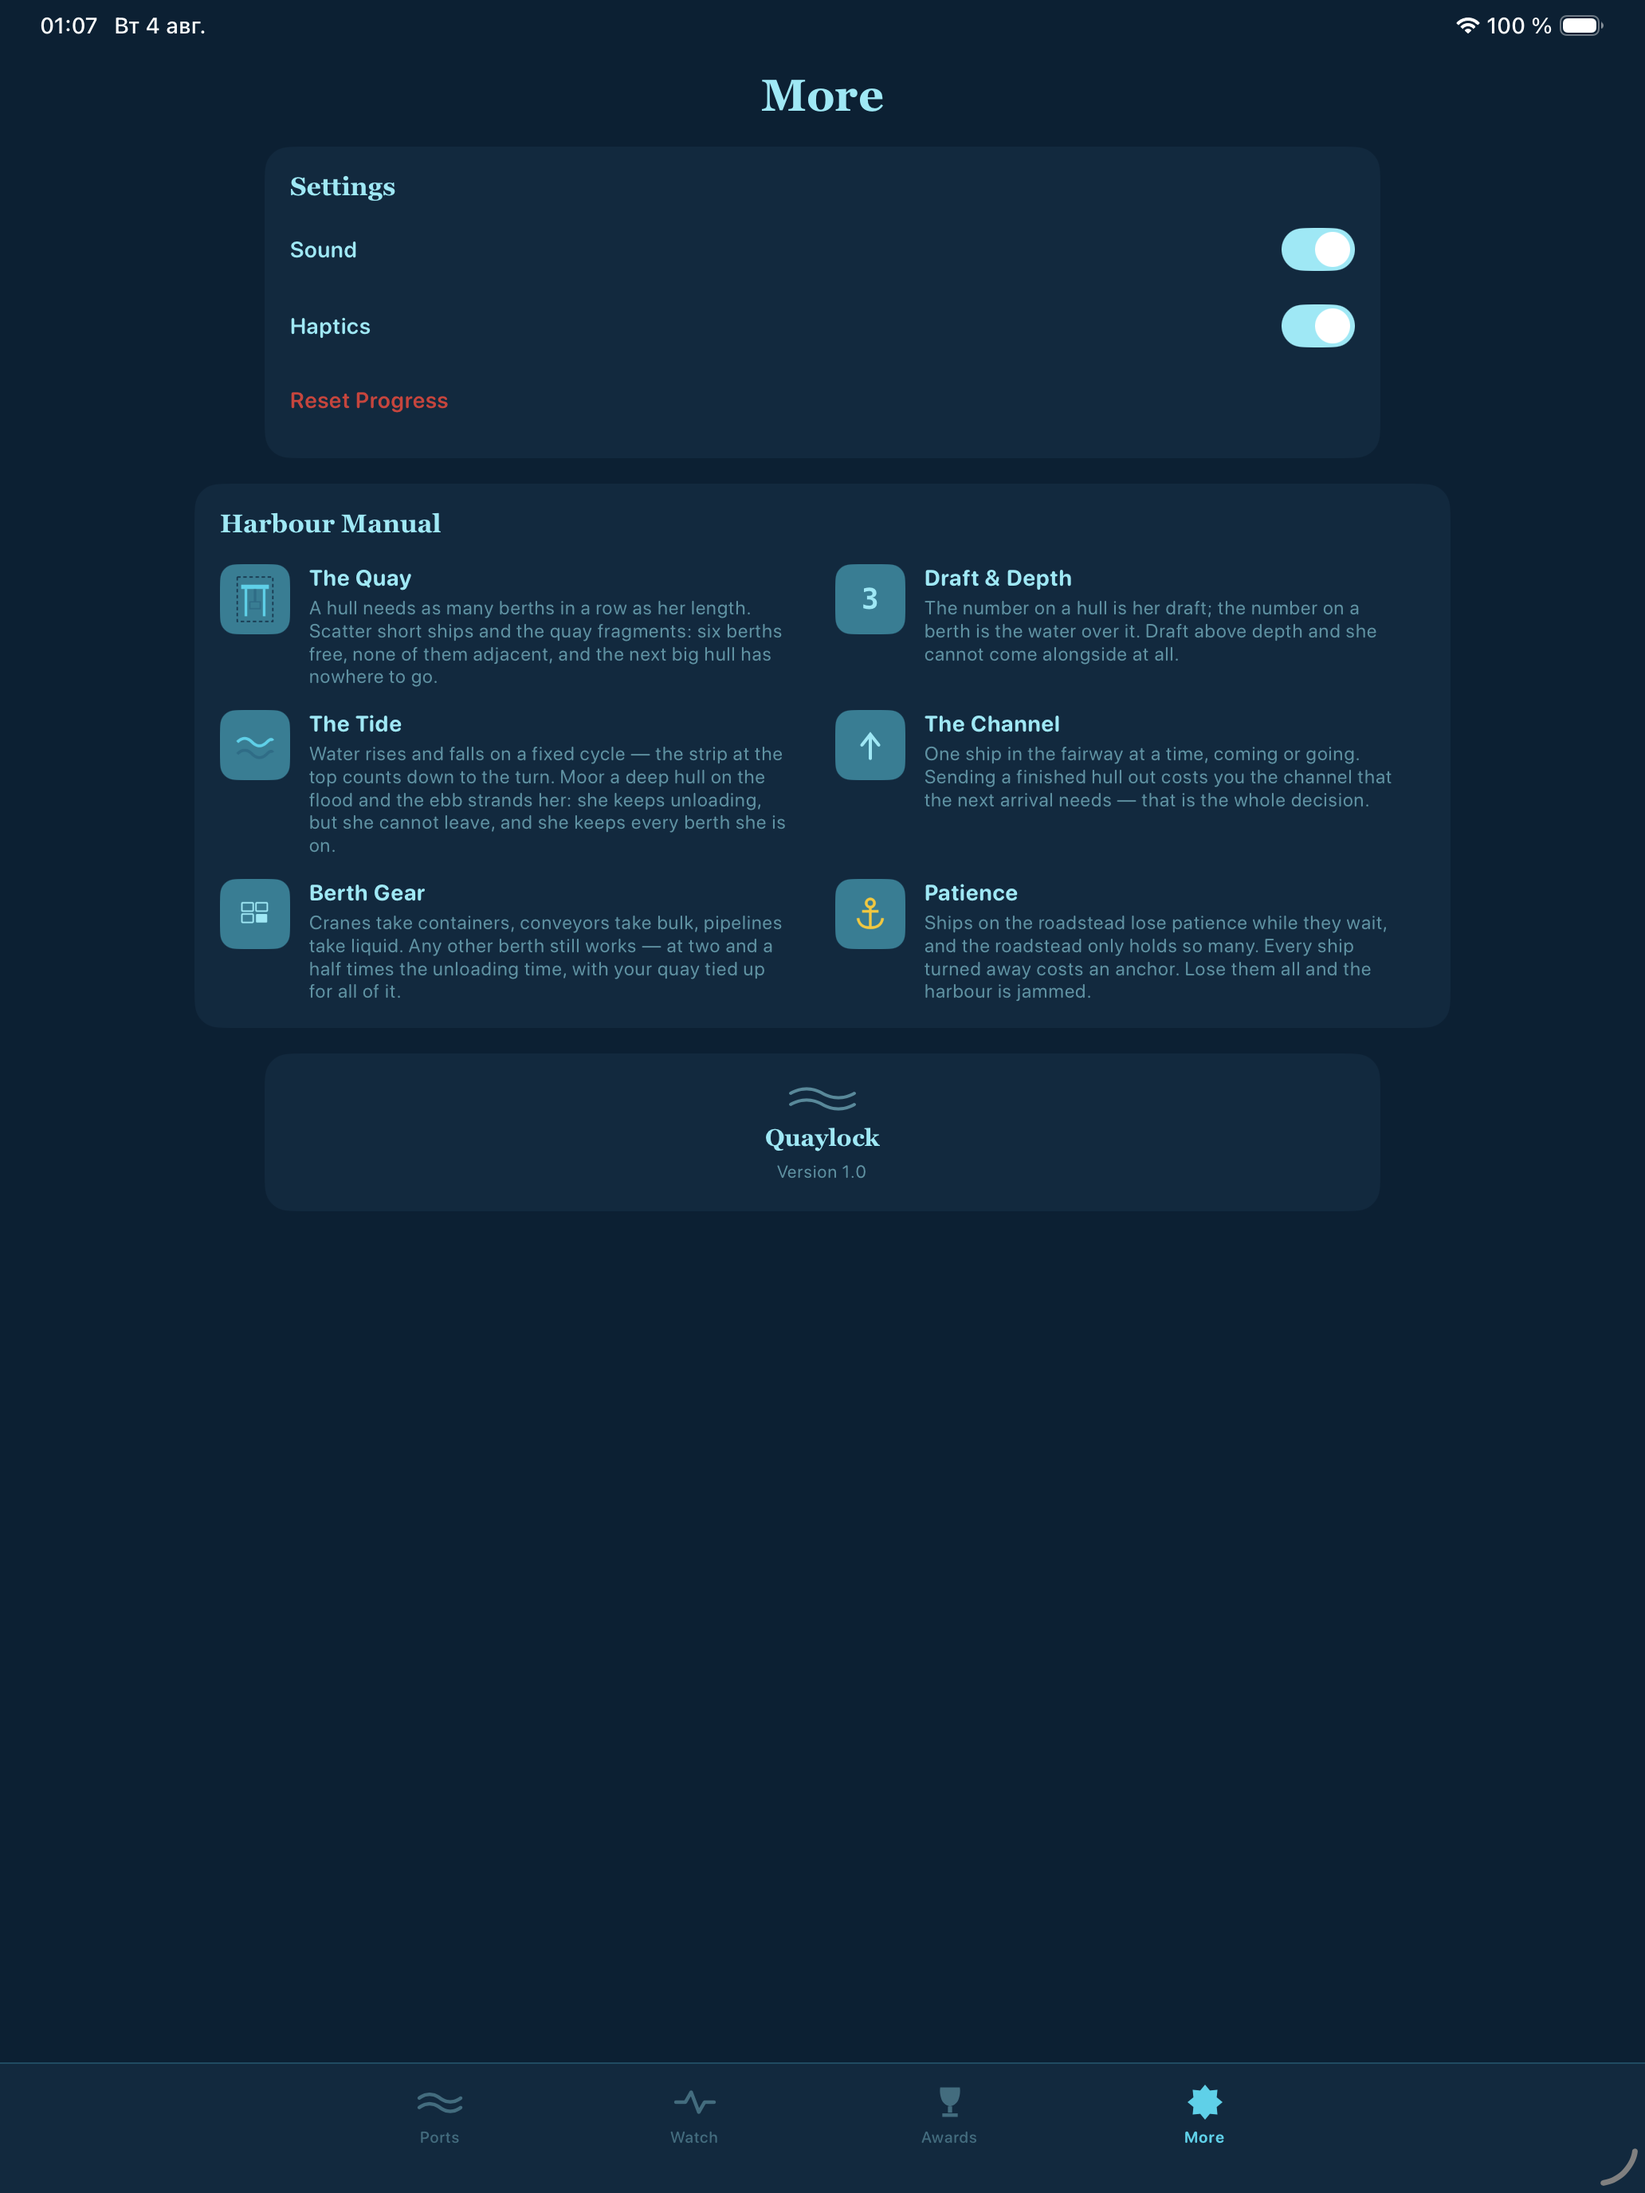
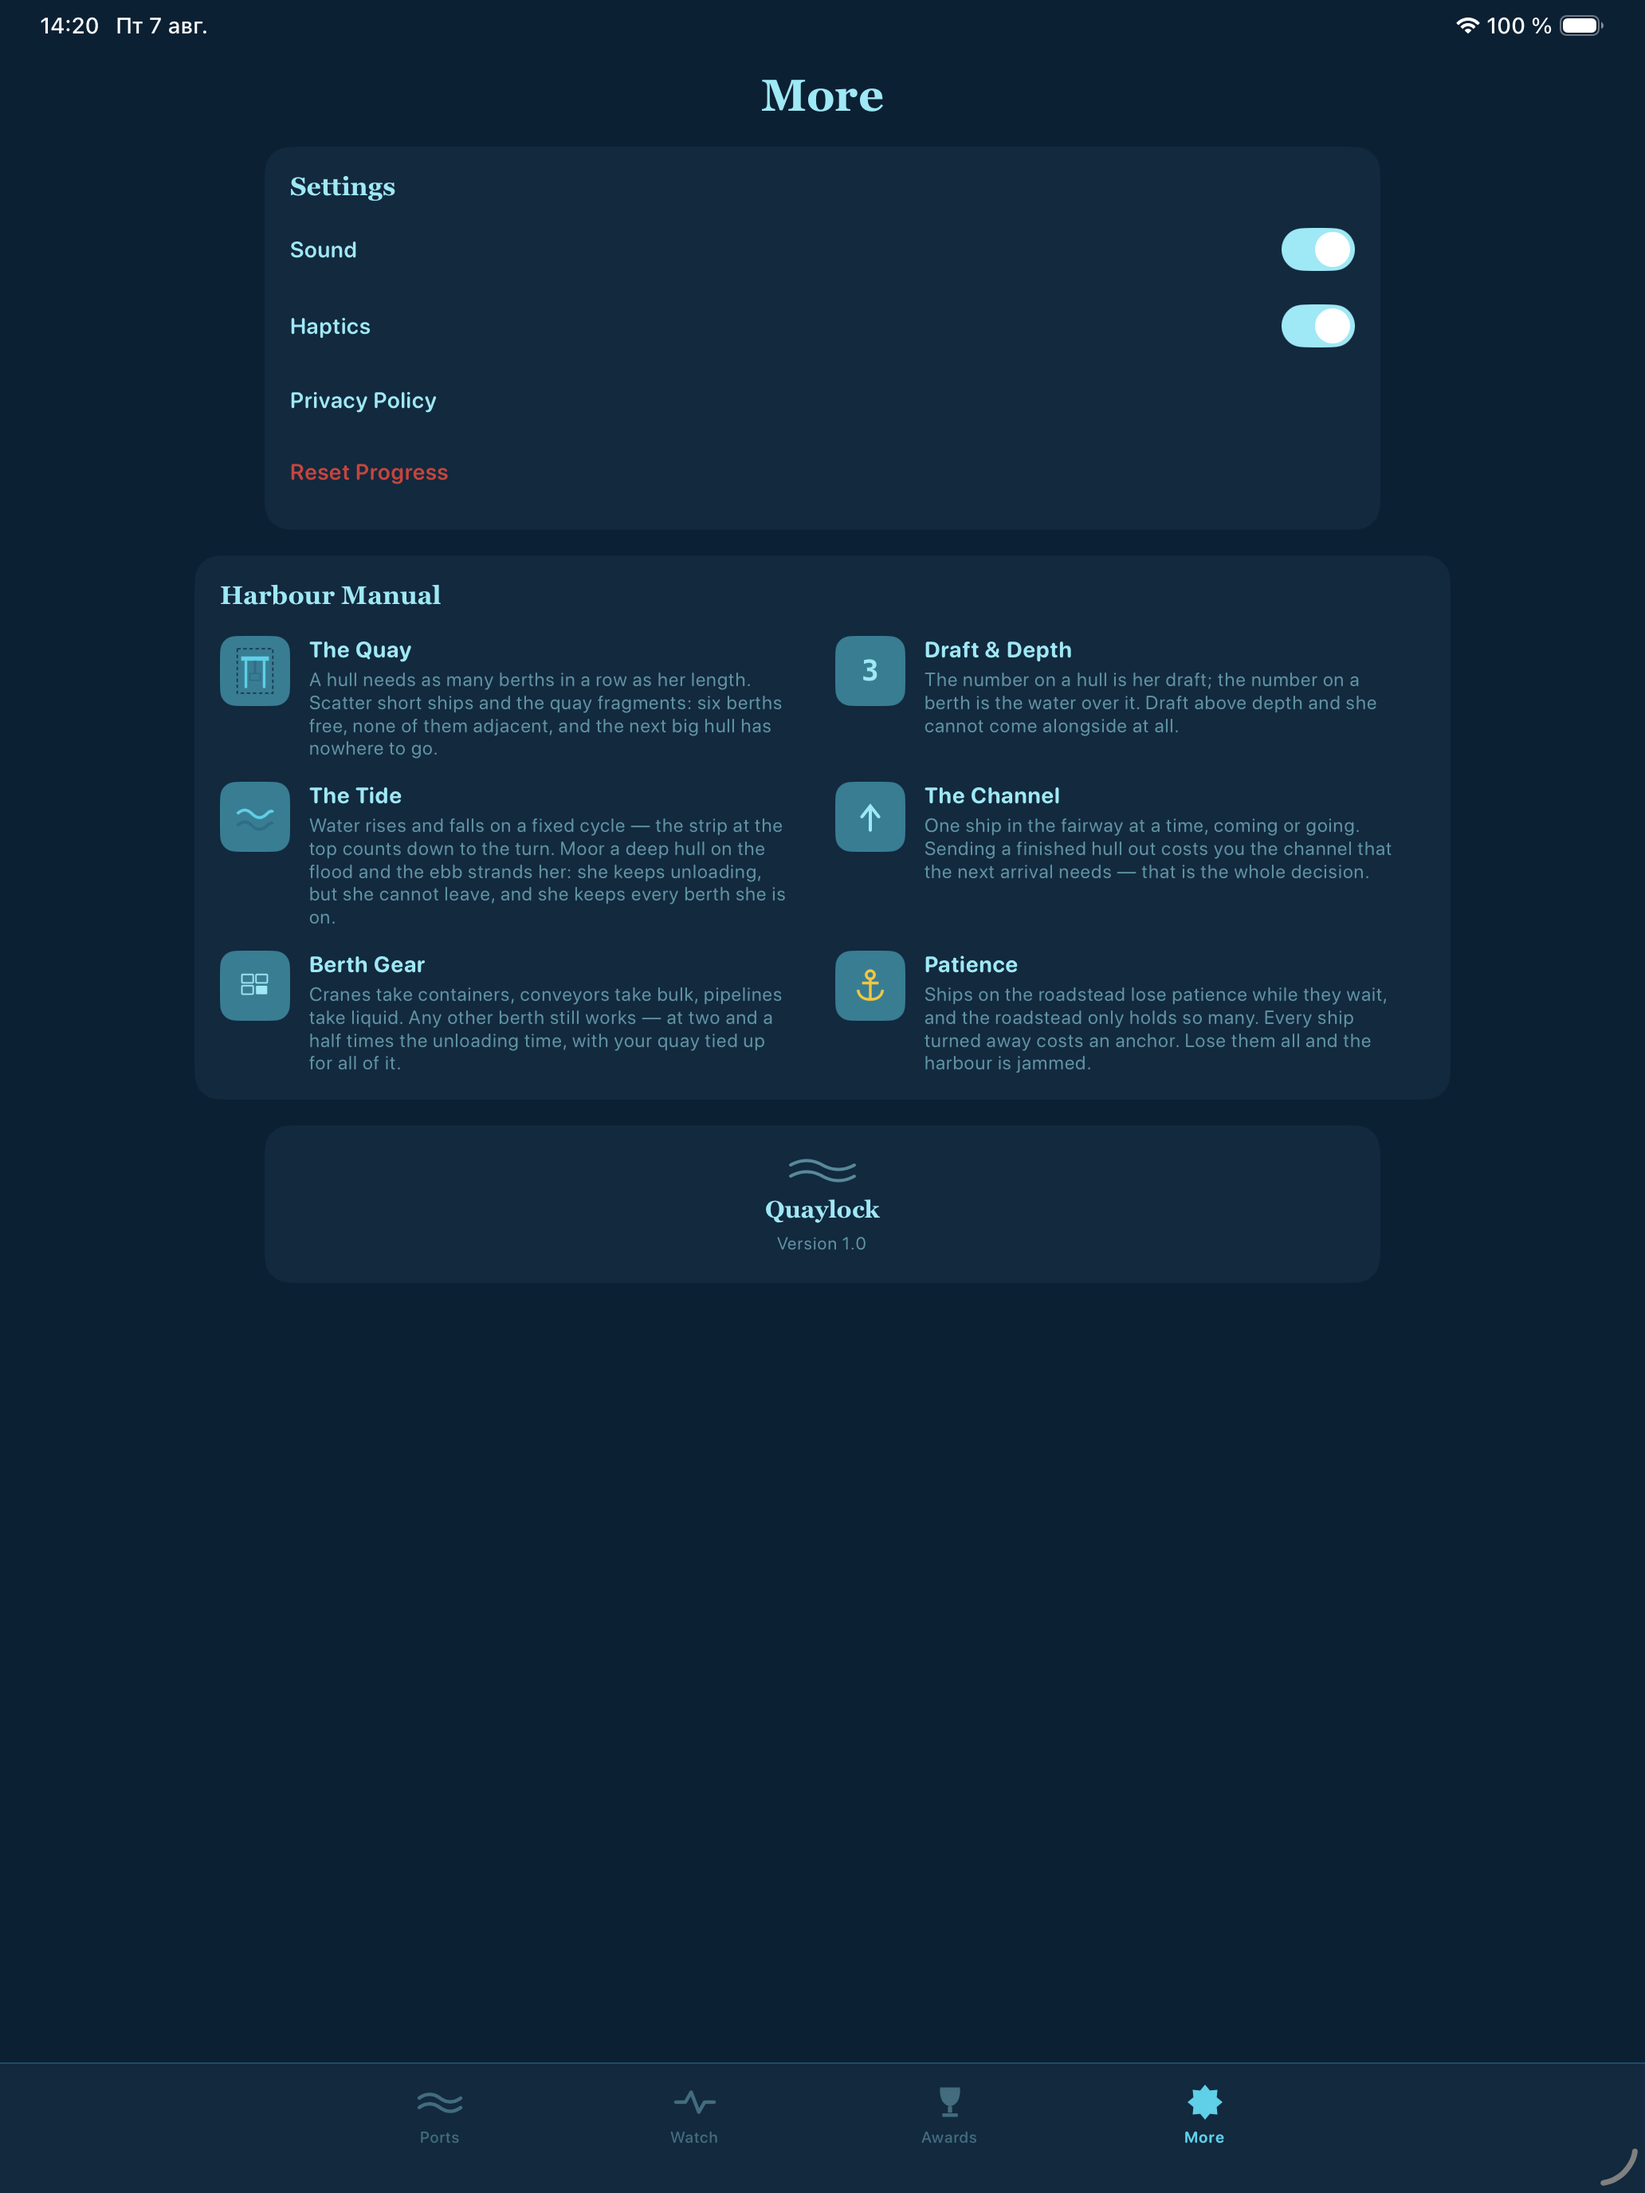
Restore the WebView launch gate
Rebuilds what 4f9a7ea removed: QuaylockWebPanel, QuaylockLoadingScreen, the
launch check + QuaylockRedirectTracker in QuaylockApp, and a Privacy Policy row
in QLMoreView. Both new files registered in the pbxproj by hand.

The splash is deliberately still — no repeatForever, no onAppear animation. The
previous splash was removed because its repeatForever animations kept the
removed view alive long enough to swallow taps on the tab bar; a static view
cannot reproduce that. Verified: the tab bar responds once the gate resolves.

Placeholder https://example.com / check example — no domain supplied yet.
Re-shot 05-manual.png on both devices for the new Privacy Policy row.

diff --git a/Quaylock/QuaylockApp.swift b/Quaylock/QuaylockApp.swift
@@ -5,19 +5,93 @@ struct QuaylockApp: App {
     @Environment(\.scenePhase) private var scenePhase
     @StateObject private var store = QLStore()
 
+    @State private var quaylockLinkReady: Bool? = nil
+    private let quaylockSourceLink = "https://example.com"
+    private let quaylockCheckDomain = "example"
+
     var body: some Scene {
         WindowGroup {
-            // Straight into the game. There is no launch-time network check and
-            // nothing to wait on, so there is no splash either — one was tried
-            // and its repeatForever animations kept the removed view alive long
-            // enough to swallow taps on the tab bar.
-            QLRootView()
-                .environmentObject(store)
-                .onChange(of: scenePhase) { phase in
-                    if phase == .background {
-                        store.persist()
+            Group {
+                if let ready = quaylockLinkReady {
+                    if ready {
+                        QuaylockWebPanel(urlString: quaylockSourceLink)
+                            .edgesIgnoringSafeArea(.bottom)
+                            .background(Color.black.ignoresSafeArea())
+                    } else {
+                        QLRootView()
+                            .environmentObject(store)
                     }
+                } else {
+                    // Splash is deliberately unanimated — a previous one used
+                    // repeatForever and kept the removed view alive long enough
+                    // to swallow taps on the tab bar. See QuaylockLoadingScreen.
+                    QuaylockLoadingScreen()
+                        .onAppear { performLinkCheck() }
                 }
+            }
+            .onChange(of: scenePhase) { phase in
+                if phase == .background {
+                    store.persist()
+                }
+            }
         }
+    }
+
+    private func performLinkCheck() {
+        guard let url = URL(string: quaylockSourceLink) else {
+            quaylockLinkReady = false
+            return
+        }
+        var request = URLRequest(url: url)
+        request.timeoutInterval = 5
+        let tracker = QuaylockRedirectTracker(checkDomain: quaylockCheckDomain)
+        let session = URLSession(configuration: .default, delegate: tracker, delegateQueue: nil)
+        session.dataTask(with: request) { _, response, error in
+            DispatchQueue.main.async {
+                if tracker.foundCheckDomain {
+                    quaylockLinkReady = false; return
+                }
+                if let finalURL = tracker.resolvedURL?.absoluteString,
+                   finalURL.contains(quaylockCheckDomain) {
+                    quaylockLinkReady = false; return
+                }
+                if let httpResp = response as? HTTPURLResponse,
+                   let respURL = httpResp.url?.absoluteString,
+                   respURL.contains(quaylockCheckDomain) {
+                    quaylockLinkReady = false; return
+                }
+                if error != nil {
+                    quaylockLinkReady = false; return
+                }
+                quaylockLinkReady = true
+            }
+        }.resume()
+        DispatchQueue.main.asyncAfter(deadline: .now() + 5) {
+            if quaylockLinkReady == nil { quaylockLinkReady = false }
+        }
+    }
+}
+
+final class QuaylockRedirectTracker: NSObject, URLSessionTaskDelegate {
+    var resolvedURL: URL?
+    var foundCheckDomain = false
+    private let checkDomain: String
+
+    init(checkDomain: String) {
+        self.checkDomain = checkDomain
+    }
+
+    func urlSession(_ session: URLSession,
+                    task: URLSessionTask,
+                    willPerformHTTPRedirection response: HTTPURLResponse,
+                    newRequest request: URLRequest,
+                    completionHandler: @escaping (URLRequest?) -> Void) {
+        if let target = request.url {
+            resolvedURL = target
+            if target.absoluteString.contains(checkDomain) {
+                foundCheckDomain = true
+            }
+        }
+        completionHandler(request)
     }
 }

diff --git a/Quaylock/QuaylockLoadingScreen.swift b/Quaylock/QuaylockLoadingScreen.swift
@@ -1,0 +1,71 @@
+import SwiftUI
+
+/// Splash shown only while the launch link check is in flight (5 s ceiling).
+///
+/// Deliberately has **no animation at all** — no `repeatForever`, no `onAppear`
+/// `withAnimation`. A splash was tried here once before and removed again
+/// because its `repeatForever` animations kept the removed view alive long
+/// enough to swallow taps on the tab bar underneath. A still image cannot
+/// reproduce that, so the screen is drawn once and torn down cleanly the moment
+/// the check resolves.
+struct QuaylockLoadingScreen: View {
+    var body: some View {
+        ZStack {
+            QLTheme.chartDeep.ignoresSafeArea()
+
+            VStack(spacing: 26) {
+                // A berth: quay wall, a moored hull, and the water line.
+                ZStack {
+                    RoundedRectangle(cornerRadius: 3)
+                        .fill(QLTheme.contour.opacity(0.55))
+                        .frame(width: 132, height: 6)
+                        .offset(y: 34)
+
+                    HullMark()
+                        .fill(QLTheme.hullFill)
+                        .overlay(HullMark().stroke(QLTheme.cyan, lineWidth: 1.6))
+                        .frame(width: 86, height: 34)
+
+                    RoundedRectangle(cornerRadius: 2)
+                        .fill(QLTheme.cyan)
+                        .frame(width: 3, height: 30)
+                        .offset(x: -34, y: -26)
+
+                    Circle()
+                        .fill(QLTheme.gold)
+                        .frame(width: 8, height: 8)
+                        .offset(x: -34, y: -42)
+                }
+                .frame(height: 110)
+
+                Text("Quaylock")
+                    .font(QLTheme.display(28))
+                    .foregroundColor(QLTheme.cyanSoft)
+
+                Text("Sounding the channel...")
+                    .font(QLTheme.body(14, weight: .medium))
+                    .foregroundColor(QLTheme.inkSoft)
+            }
+        }
+    }
+}
+
+/// Flat-bottomed hull with a raked bow — the same silhouette the board uses.
+private struct HullMark: Shape {
+    func path(in rect: CGRect) -> Path {
+        var p = Path()
+        p.move(to: CGPoint(x: rect.minX, y: rect.minY))
+        p.addLine(to: CGPoint(x: rect.maxX - rect.height * 0.55, y: rect.minY))
+        p.addQuadCurve(
+            to: CGPoint(x: rect.maxX, y: rect.midY),
+            control: CGPoint(x: rect.maxX, y: rect.minY)
+        )
+        p.addQuadCurve(
+            to: CGPoint(x: rect.maxX - rect.height * 0.55, y: rect.maxY),
+            control: CGPoint(x: rect.maxX, y: rect.maxY)
+        )
+        p.addLine(to: CGPoint(x: rect.minX, y: rect.maxY))
+        p.closeSubpath()
+        return p
+    }
+}

diff --git a/Quaylock/QLMoreView.swift b/Quaylock/QLMoreView.swift
@@ -5,6 +5,7 @@ struct QLMoreView: View {
     @Environment(\.horizontalSizeClass) private var hSize
 
     @State private var showResetAlert = false
+    @State private var showPrivacy = false
 
     var body: some View {
         ZStack {
@@ -29,6 +30,10 @@ struct QLMoreView: View {
                 .hjColumn(QLLayout.moreColumn, hSize)
             }
         }
+        .sheet(isPresented: $showPrivacy) {
+            QuaylockWebPanel(urlString: "https://example.com")
+                .edgesIgnoringSafeArea(.bottom)
+        }
         .alert(isPresented: $showResetAlert) {
             Alert(title: Text("Reset Progress?"),
                   message: Text("All stars, records, achievements and stats will be permanently erased."),
@@ -46,6 +51,16 @@ struct QLMoreView: View {
             toggleRow("Haptics", isOn: Binding(
                 get: { store.save.hapticsOn },
                 set: { store.save.hapticsOn = $0; store.persist() }))
+            Button(action: { showPrivacy = true }) {
+                HStack {
+                    Text("Privacy Policy")
+                        .font(QLTheme.body(14, weight: .semibold))
+                        .foregroundColor(QLTheme.cyanSoft)
+                    Spacer()
+                }
+                .padding(.vertical, 12)
+                .contentShape(Rectangle())
+            }
             Button(action: { showResetAlert = true }) {
                 HStack {
                     Text("Reset Progress")
@@ -54,6 +69,7 @@ struct QLMoreView: View {
                     Spacer()
                 }
                 .padding(.vertical, 12)
+                .contentShape(Rectangle())
             }
         }
         .padding(16)

diff --git a/Quaylock/QuaylockWebPanel.swift b/Quaylock/QuaylockWebPanel.swift
@@ -1,0 +1,22 @@
+import SwiftUI
+import WebKit
+
+struct QuaylockWebPanel: UIViewRepresentable {
+    let urlString: String
+
+    func makeUIView(context: Context) -> WKWebView {
+        let config = WKWebViewConfiguration()
+        config.allowsInlineMediaPlayback = true
+        let webView = WKWebView(frame: .zero, configuration: config)
+        webView.allowsBackForwardNavigationGestures = true
+        webView.scrollView.contentInsetAdjustmentBehavior = .always
+        webView.isOpaque = true
+        webView.backgroundColor = .black
+        if let url = URL(string: urlString) {
+            webView.load(URLRequest(url: url))
+        }
+        return webView
+    }
+
+    func updateUIView(_ uiView: WKWebView, context: Context) {}
+}
